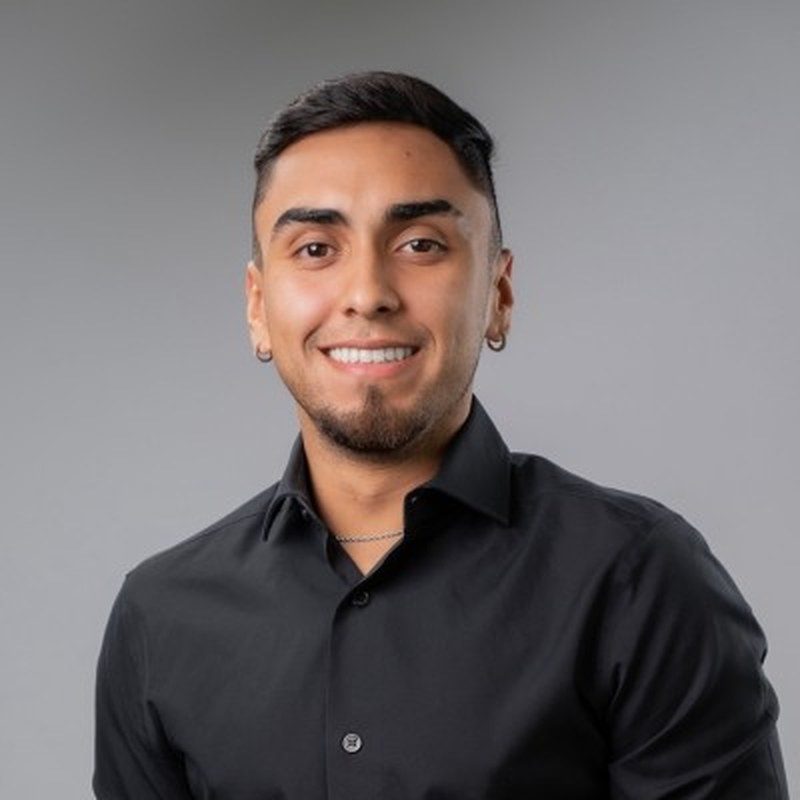
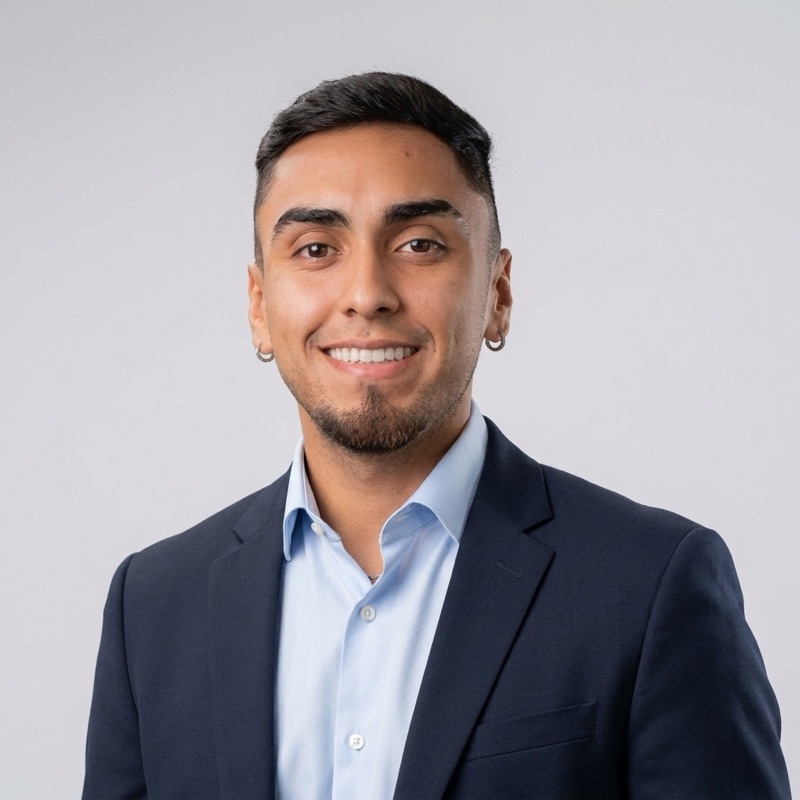
Team: jackets for Carlos, Sebastian and Carlos Andres; names under every photo; bios closed by default
Client feedback (Bert, Oct 2 2026):
- Headshots for Carlos Bernal, Sebastian Mahecha and Carlos Andres Hernandez
  re-edited with Nano Banana Pro: navy jacket, dress shirt, light studio backdrop,
  to match the rest of the team. Faces kept from the original photos.
- Every portrait now shows the member's name underneath (was only the active one).
- Bios start closed and open when the portrait or the name is clicked.
- Portrait grid is no longer sticky, it is taller than a laptop screen with captions.

diff --git a/src/components/react/TeamShowcase.tsx b/src/components/react/TeamShowcase.tsx
@@ -4,7 +4,8 @@ import { cn } from '@/lib/utils';
 // Adapted from the 21st.dev "Team Showcase" component (@makviesainte): a staggered
 // portrait grid paired with an interactive member list. Portraits rest in grayscale
 // and the active one turns to full color. Changes for MFH: brand tokens, division
-// groups, an initials tile for members without a headshot, and an expandable bio.
+// groups, an initials tile for members without a headshot, the name under every
+// portrait, and a bio that stays closed until the member is clicked.
 
 export interface TeamMember {
   id: string;
@@ -41,13 +42,18 @@ export default function TeamShowcase({ groups }: TeamShowcaseProps) {
   const columns = [0, 1, 2].map((c) => tiles.filter((_, i) => i % 3 === c));
 
   const [hoveredId, setHoveredId] = useState<string | null>(null);
-  const [openId, setOpenId] = useState<string | null>(members.find((m) => m.blurb)?.id ?? null);
+  // Bios start closed (client request, Oct 2026): a visitor opens one by clicking
+  // the portrait or the name.
+  const [openId, setOpenId] = useState<string | null>(null);
   const activeId = hoveredId ?? openId;
 
   const selectFromTile = (id: string) => {
     setOpenId(id);
     // On stacked layouts the list sits below the grid, so bring the row into view.
-    document.getElementById(`team-row-${id}`)?.scrollIntoView({ block: 'nearest', behavior: 'smooth' });
+    const reduce = window.matchMedia('(prefers-reduced-motion: reduce)').matches;
+    document
+      .getElementById(`team-row-${id}`)
+      ?.scrollIntoView({ block: 'nearest', behavior: reduce ? 'auto' : 'smooth' });
   };
 
   return (
@@ -56,12 +62,12 @@ export default function TeamShowcase({ groups }: TeamShowcaseProps) {
       {/* The `reveal` classes are static strings: the site's scroll-reveal script adds
           `in` to them outside React, and React never rewrites an unchanged className. */}
       <div
-        className="reveal-l flex w-full gap-2 md:gap-3.5 lg:sticky lg:top-28 lg:w-auto lg:flex-none"
+        className="reveal-l flex w-full gap-2.5 md:gap-3.5 lg:w-auto lg:flex-none"
         aria-hidden="true"
         suppressHydrationWarning
       >
         {columns.map((column, c) => (
-          <div key={c} className={cn('flex flex-1 flex-col gap-2 md:gap-3.5 lg:flex-none', COLUMN_CLASSES[c])}>
+          <div key={c} className={cn('flex min-w-0 flex-1 flex-col gap-3.5 md:gap-5 lg:flex-none', COLUMN_CLASSES[c])}>
             {column.map((member) => (
               <PhotoTile
                 key={member.id}
@@ -117,56 +123,66 @@ function PhotoTile({
   onHover: (id: string | null) => void;
   onSelect: (id: string) => void;
 }) {
+  // Credentials after a comma ("Carlos Bernal, CPA, MAcc") stay in the list, the
+  // caption under the portrait carries the name alone.
+  const shortName = member.name.split(',')[0];
+
   return (
     <button
       type="button"
       tabIndex={-1}
       className={cn(
-        'relative m-0 block aspect-[13/14] w-full cursor-pointer appearance-none overflow-hidden rounded-xl border-0 bg-navy p-0 transition-[opacity,box-shadow] duration-500',
+        'm-0 block w-full cursor-pointer appearance-none border-0 bg-transparent p-0 text-left font-[inherit] transition-opacity duration-500',
         isDimmed ? 'opacity-60' : 'opacity-100',
-        isActive && 'shadow-[0_18px_40px_-20px_rgba(0,53,92,0.65)]',
       )}
       onMouseEnter={() => onHover(member.id)}
       onMouseLeave={() => onHover(null)}
       onClick={() => onSelect(member.id)}
     >
-      {member.image ? (
-        <img
-          src={member.image}
-          alt={member.name}
-          width={400}
-          height={430}
-          loading="lazy"
-          className={cn(
-            'h-full w-full object-cover transition-[filter,transform] duration-700 ease-out motion-reduce:transition-none',
-            isActive ? 'scale-105 grayscale-0' : 'scale-100 brightness-[0.82] grayscale',
-          )}
-        />
-      ) : (
-        <span
-          className={cn(
-            'grid h-full w-full place-items-center font-display text-[clamp(1.6rem,4vw,2.4rem)] font-black tracking-wide transition-colors duration-500',
-            isActive ? 'text-gold' : 'text-white/35',
-          )}
-        >
-          {member.initials}
-        </span>
-      )}
-      {/* Name caption, so a tapped portrait is identified without scrolling to the list */}
       <span
         className={cn(
-          'pointer-events-none absolute inset-x-0 bottom-0 bg-gradient-to-t from-[rgba(0,21,38,0.88)] to-transparent px-3 pb-2.5 pt-8 text-left font-display text-[0.72rem] font-extrabold uppercase leading-tight tracking-[0.08em] text-white transition-opacity duration-300',
-          isActive ? 'opacity-100' : 'opacity-0',
+          'relative block aspect-[13/14] w-full overflow-hidden rounded-xl bg-navy transition-shadow duration-500',
+          isActive && 'shadow-[0_18px_40px_-20px_rgba(0,53,92,0.65)]',
         )}
       >
-        {member.name}
+        {member.image ? (
+          <img
+            src={member.image}
+            alt={member.name}
+            width={400}
+            height={430}
+            loading="lazy"
+            className={cn(
+              'h-full w-full object-cover transition-[filter,transform] duration-700 ease-out motion-reduce:transition-none',
+              isActive ? 'scale-105 grayscale-0' : 'scale-100 brightness-[0.82] grayscale',
+            )}
+          />
+        ) : (
+          <span
+            className={cn(
+              'grid h-full w-full place-items-center font-display text-[clamp(1.6rem,4vw,2.4rem)] font-black tracking-wide transition-colors duration-500',
+              isActive ? 'text-gold' : 'text-white/35',
+            )}
+          >
+            {member.initials}
+          </span>
+        )}
+        <span
+          className={cn(
+            'pointer-events-none absolute inset-x-0 bottom-0 h-[3px] origin-left bg-gold transition-transform duration-500 ease-out motion-reduce:transition-none',
+            isActive ? 'scale-x-100' : 'scale-x-0',
+          )}
+        />
       </span>
+      {/* Name under every portrait, so each face is identified without the list */}
       <span
         className={cn(
-          'pointer-events-none absolute inset-x-0 bottom-0 h-[3px] origin-left bg-gold transition-transform duration-500 ease-out motion-reduce:transition-none',
-          isActive ? 'scale-x-100' : 'scale-x-0',
+          'mt-2 block font-display text-[0.7rem] font-extrabold uppercase leading-tight tracking-[0.06em] transition-colors duration-300 md:text-[0.78rem]',
+          isActive ? 'text-brand' : 'text-ink',
         )}
-      />
+      >
+        {shortName}
+      </span>
     </button>
   );
 }
